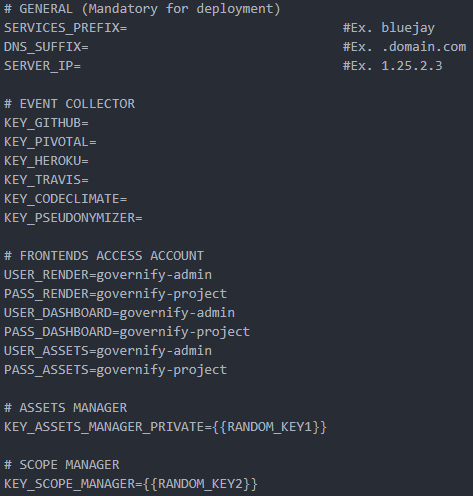
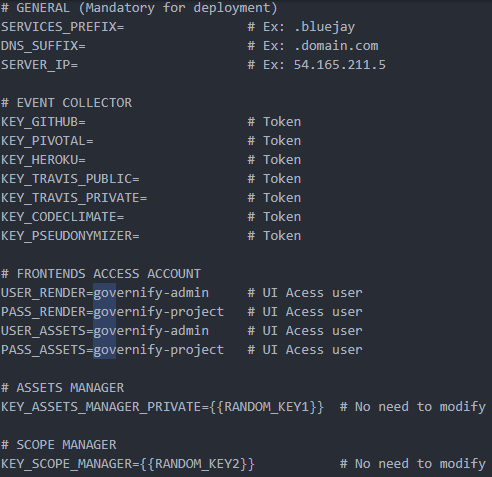
feat: dot web change

diff --git a/content/quickstart/auditing-agile-2.0.md b/content/quickstart/auditing-agile-2.0.md
@@ -45,7 +45,7 @@ unzip 2.0.0.zip
 cd /bluejay-infrastructure-2.0.0
 ``` 
 
-4. Edit `.env` located at the root of the folder. This file contains all the environmental variables for the system to work as intended. By now you should at least fill the first three variables concerning the deployment.
+4. Edit `.env` located at the root of the folder. This file contains all the environmental variables for the system to work as intended. By now you should at least fill the first three variables concerning the deployment. Bear in mind that both *SERVICES_PREFIX* and *DNS_SUFIX* must start with a dot and end without it.
 
 ![.env file](../images/auditing_agile/env.PNG)
 
